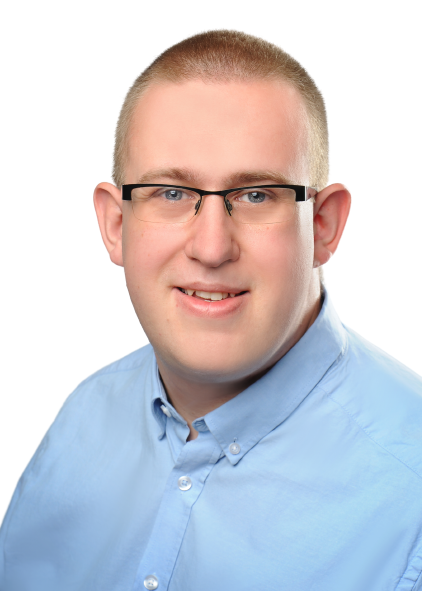
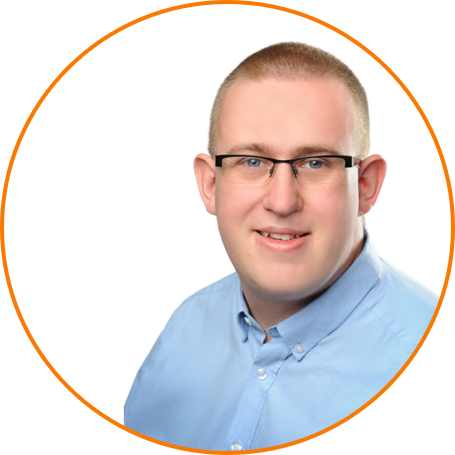
edit headerand media queries

diff --git a/src/app/components/header/header.component.scss b/src/app/components/header/header.component.scss
@@ -3,13 +3,8 @@
 @import "./../../../styles.scss";
 
 header {
+    @include positionFixed(0, 0, unset, 0);
     background-color: $background-main;
-    display: block;
-    position: fixed;
-    z-index: 999;
-    left: 0;
-    right: 0;
-    top: 0;
     padding: 0 5rem;
 
     h4 {
@@ -17,9 +12,7 @@ header {
     }
 
     .headerLinks {
-        display: flex;
-        justify-content: space-between;
-        align-items: center;
+        @include containerPosition(space-between, center);
         height: 10vh;
 
         a {
@@ -28,10 +21,25 @@ header {
             &:hover {
                 color: $fontcolor-link-hover;
             }
+        }
 
-            @media (max-width: 750px) {
-                display: none;
+        img {
+            @include image(cover, 2rem);
+            display: none;
+
+            &:hover {
+                cursor: pointer;
             }
         }
+    }
+}
+
+@media (max-width: 750px) {
+    a {
+        display: none;
+    }
+
+    img {
+        display: block !important;
     }
 }

diff --git a/src/generalSCSS/mixin.scss b/src/generalSCSS/mixin.scss
@@ -28,3 +28,12 @@
     bottom: $bottom;
     left: $left;
 }
+
+@mixin positionFixed($top: unset, $right: unset, $bottom: unset, $left: unset) {
+    position: fixed;
+    z-index: 999;
+    top: $top;
+    right: $right;
+    bottom: $bottom;
+    left: $left;
+}

diff --git a/src/app/components/header/header.component.html b/src/app/components/header/header.component.html
@@ -6,7 +6,7 @@
             <a href="#">Skills</a>
             <a href="#">Projects</a>
             <a href="#">Contact</a>
+            <img src="./../../../assets/img/menu.png">
         </div>
     </div>
-
 </header>

diff --git a/src/app/components/about-me/about-me.component.html b/src/app/components/about-me/about-me.component.html
@@ -21,7 +21,7 @@
     </div>
 
     <div class="aboutMeImg">
-        <img src="./../../../assets/img/Bild1.png">
+        <img src="./../../../assets/img/profile_pic2.png">
         <div class="bar"></div>
     </div>
 
